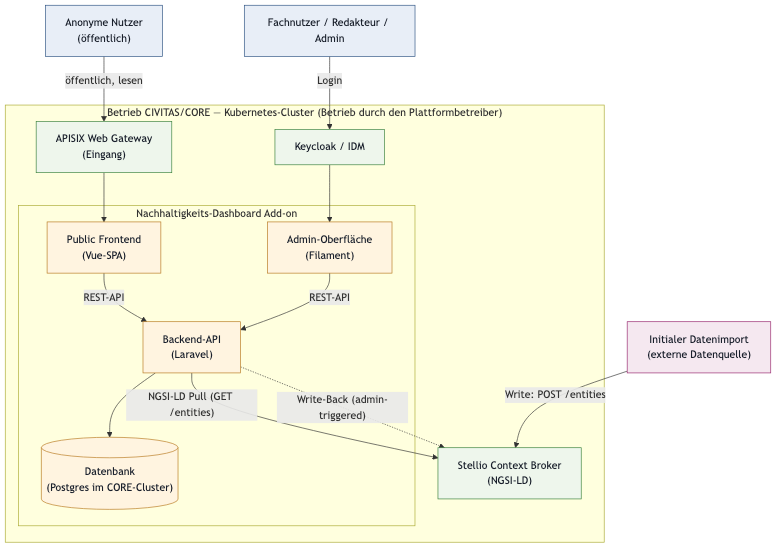
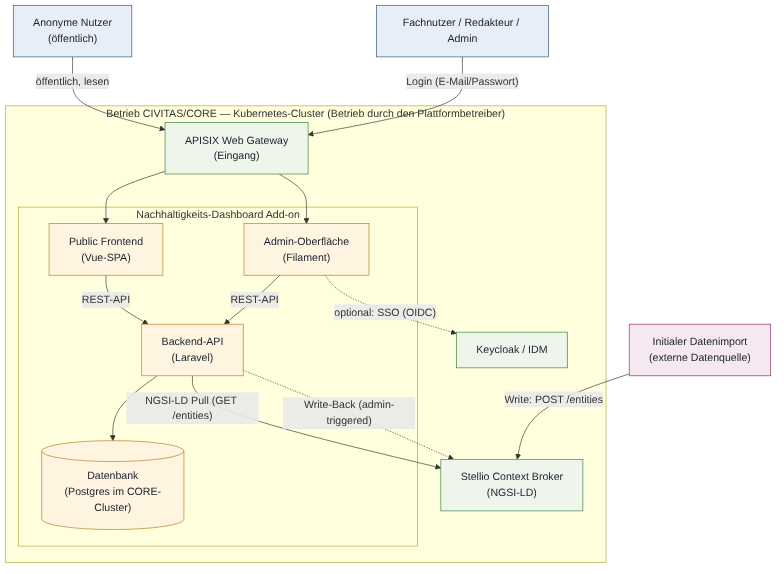
docs(architecture): describe password and optional SSO login for the admin UI (#28)
## What

`docs/architecture/civitas-core/architecture.md` now describes how
editors and admins actually reach the Filament admin UI in the
CIVITAS/CORE setup:

- The APISIX row in the component table says one open host route without
an authentication plugin forwards all dashboard traffic, including the
admin UI.
- The Keycloak row in the same table says Keycloak offers optional SSO
for the admin UI, instead of saying it authenticates every editor before
they reach it.
- The Admin UI bullet says the application requires its own login (email
and password, or Keycloak SSO when enabled) and that APISIX does not
gate it.
- The access path for editorial users names both login options. It also
says SSO is switched on per deployment with `KEYCLOAK_SSO_ENABLED`, not
per tenant.
- The architecture diagram (`architecture.mmd`, re-rendered to SVG and
PNG) routes the editor login through APISIX to the admin UI and shows
Keycloak as an optional SSO path.
- The comment in `config/integrations.php` no longer says SSO can be
toggled per tenant.

## Why

The document and the diagram said the admin UI is reachable only after a
Keycloak login, and that SSO is togglable per tenant. Neither matches
the code:

- `AdminPanelProvider.php` always registers the Filament password login.
The Keycloak button is only an extra when
`integrations.keycloak_sso.enabled` is true.
- That flag comes from `KEYCLOAK_SSO_ENABLED` in
`config/integrations.php`, which is one global value for the whole
deployment.
[…]

Changed region(s): [[0.0, 0.0, 0.9796, 0.9819], [0.3367, 0.5523, 0.3673, 0.583]]

diff --git a/config/integrations.php b/config/integrations.php
@@ -61,7 +61,8 @@ return [
     |--------------------------------------------------------------------------
     |
     | When enabled, users can authenticate via CORE's Keycloak instance
-    | using OpenID Connect. This is optional and can be toggled per tenant.
+    | using OpenID Connect. This is optional and enabled per deployment via
+    | KEYCLOAK_SSO_ENABLED; the local password login stays available.
     |
     */
 

diff --git a/docs/architecture/civitas-core/architecture.md b/docs/architecture/civitas-core/architecture.md
@@ -17,8 +17,8 @@ management and context broker rather than shipping its own.
 
 | CORE platform component | Role for the dashboard |
 |-------------------------|------------------------|
-| **APISIX Web Gateway** | Single entry point. Routes public, read-only traffic from anonymous users to the dashboard's public frontend. |
-| **Keycloak / IDM** | Identity provider. Authenticates editorial and admin users before they reach the Filament admin UI, and issues the OAuth2 tokens the backend uses for the NGSI-LD pull. |
+| **APISIX Web Gateway** | Single entry point. One open host route without an authentication plugin forwards all dashboard traffic to the add-on: the public frontend, the REST API and the Filament admin UI. |
+| **Keycloak / IDM** | Identity provider. Offers optional single sign-on (OIDC) for editorial and admin users of the Filament admin UI, and issues the OAuth2 tokens the backend uses for the NGSI-LD pull. |
 | **Stellio Context Broker** | The platform's [ETSI NGSI-LD](https://www.etsi.org/technologies/internet-of-things) data store. Holds the sustainability indicators the dashboard ingests. |
 
 ## The dashboard add-on
@@ -30,8 +30,9 @@ cluster it consists of four parts:
 - **Public Frontend (Vue SPA)** — the citizen-facing dashboard. Served to
   anonymous users through APISIX. All routing is client-side; data is fetched
   from the backend via REST.
-- **Admin UI (Filament)** — the editorial back office. Reachable only after a
-  Keycloak login.
+- **Admin UI (Filament)** — the editorial back office. The application itself
+  requires a login: email and password, or Keycloak SSO when it is enabled.
+  APISIX does not put an authentication gate in front of it.
 - **Backend API (Laravel)** — serves the REST API to both frontends and runs the
   scheduled NGSI-LD pull synchronisation against Stellio.
 - **Database (Postgres schema in the CORE cluster)**: the dashboard's own relational
@@ -48,9 +49,10 @@ There are two distinct access paths, both entering through APISIX:
 1. **Anonymous users (public)** reach the **public frontend** read-only. They
    never authenticate and never see the admin UI. Their requests resolve against
    the dashboard's own database, not the broker.
-2. **Editorial / admin users** authenticate against **Keycloak** and then use the
-   **Filament admin UI**. (Keycloak SSO for the dashboard is optional and
-   togglable per tenant; see `config/integrations.php`.)
+2. **Editorial / admin users** sign in to the **Filament admin UI** with email
+   and password or, when Keycloak SSO is enabled, through **Keycloak**. SSO is
+   optional and switched on per deployment with `KEYCLOAK_SSO_ENABLED`; see
+   `config/integrations.php`. The local password login stays available either way.
 
 ## External data source
 
